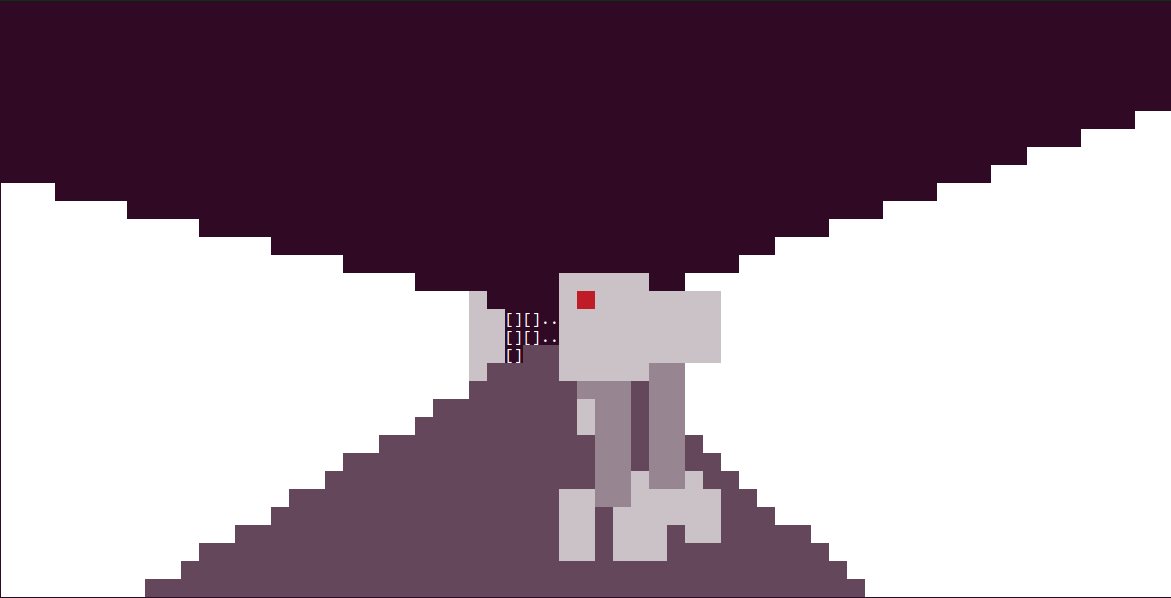
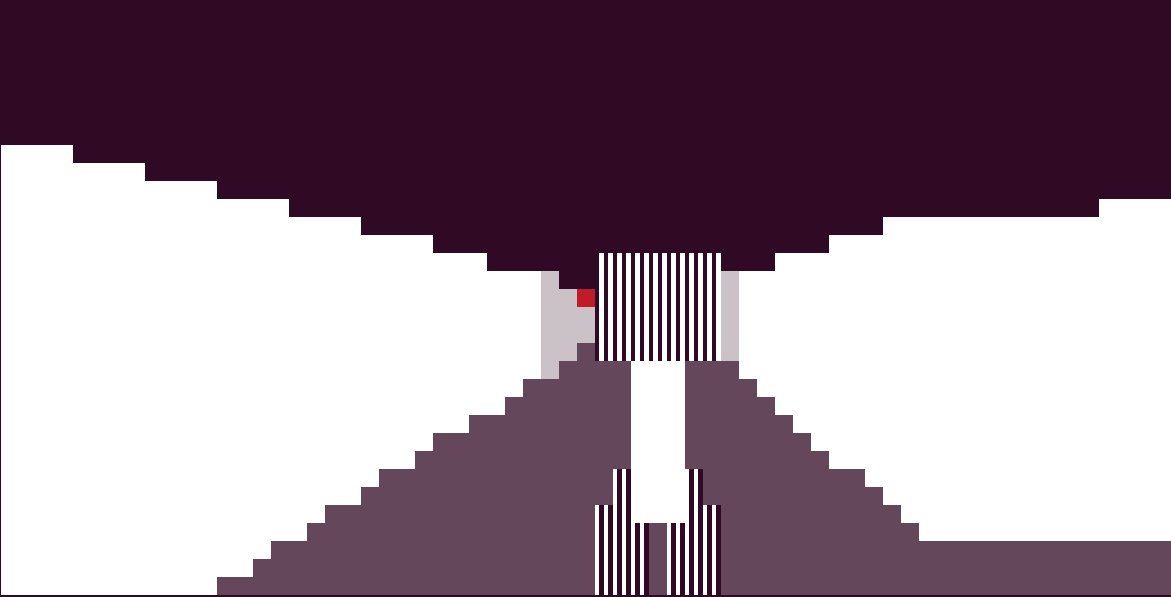
Update README

Changed region(s): [[0.0, 0.2412, 1.0, 1.0], [0.7071, 0.1809, 1.0, 0.392]]

diff --git a/README.md b/README.md
@@ -28,9 +28,8 @@ with them, find the exit back to earch, and gradually discover the truth of the 
 
 ## Game Objects
 ### Wall & Floor
-* The different characters are used to show the wall in different distance. Light block for close wall, dark block for far wall, `[]` for much far wall, `.` for the most distant wall.  
-[Click here to view wall](./images/Wall1.png)  
-[Click here to view another wall](./images/wall2.png)  
+* The different characters are used to show the wall in different distance. `██` for close wall, `▓▓` for far wall, `▒▒` for much far wall.  
+[Click here to view wall](./images/Wall1.jpg)  
 You may also notice that the floor is showed by another lighter color in these images.
 
 ### Enemy
@@ -46,7 +45,7 @@ You may also notice that the floor is showed by another lighter color in these i
 
 ### The value bars
 * Player HP, bullet number, and the HP of the enemy you pointed to are shown under the screen.  
-[Click here to view the value bars](./images/Value%20bar.png)  
+[Click here to view the value bars](./images/Value%20bar.jpg)  
 
 ---
 
@@ -55,6 +54,7 @@ You may also notice that the floor is showed by another lighter color in these i
 * **Move**: $\uparrow$ move forward, $\downarrow$ move back, $\leftarrow$ move left, $\rightarrow$ move right
 * **Load the firearm**: players can load firearms by pressing **_R_**
 * **Shooting**: players can shoot by pressing **_F_** (fire!).
+* **Pause**: Press **_ESC_** to pause the game, resume it at any time by pressing **_ESC_** again, or press **_ETNER_** to quit
 
 ## Game Menu Controls
 * **_W_** cursor move up, **_S_** cursor move down
@@ -92,7 +92,7 @@ The name of this engine is **OP engine**, as it is made by a ~~Genshin Impact pl
 With this game engine, it allows you to render any forms shapes of model. All you need to do is to take your own `.obj`  
 files made by any other 3D computer graphics software, and use the `obj_converter` to transform your `.obj` files to the 
 C files that the game engined required. All the meshes in this game are made by **Blender**.  
-Besides the rendering system, this game engine also supports game object nested. All the game objects has a  
+Besides the rendering system, this game engine also supports game object nested. All the game objects has a 
 **transform** attribute, which could clearly show the hierarchy of the objects.  
 **OP Engine** also supports OBB (Oriented Bounding Box). It allows you to set a cuboid colliding box in any size, any  
 direction, and with some basic colliding detection functions provided.
